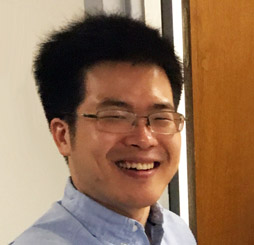
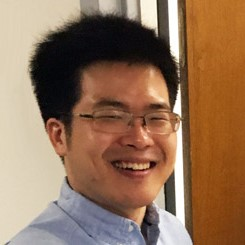
Fix people picture sizes. Structure visitor alumni

diff --git a/people.md b/people.md
@@ -37,7 +37,7 @@ alumni_categories:
 <div class='full parallax' style='background-image: url(images/banner/banner.jpg); color: #fff;'>
   <div class='row'>
     <div class='large-12 columns'>
-      {% include section-header.html title="The team" tagline="The members of the IRL Group." color="#000000" class="big" %}
+      {% include section-header.html title="The team" tagline="Current members and alumni of the IRL" color="#000000" class="big" %}
     </div>
   </div>
   <div class='four spacing'></div>
@@ -152,6 +152,12 @@ alumni_categories:
                         Graduated {{ person.year }}<br />
                         <br />
                         <strong>{{ person.status }}</strong>
+                      </p>
+                    {% elsif category.internal == "alVisitors" %}
+                      <p>
+                        {{ person.desc }}<Br />
+                        <br />
+                        {{ person.time }}
                       </p>
                     {% else %}
                       {% if person.desc %}
